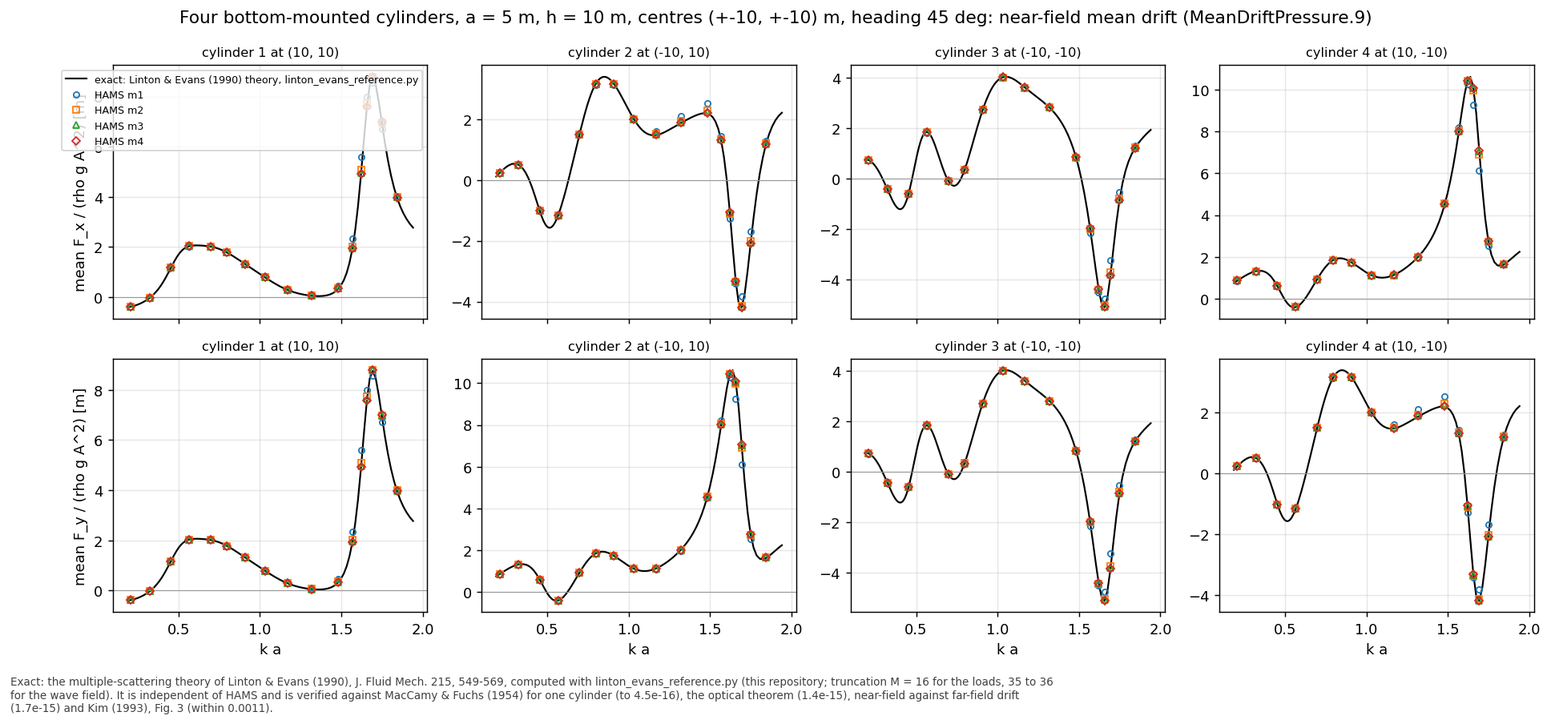
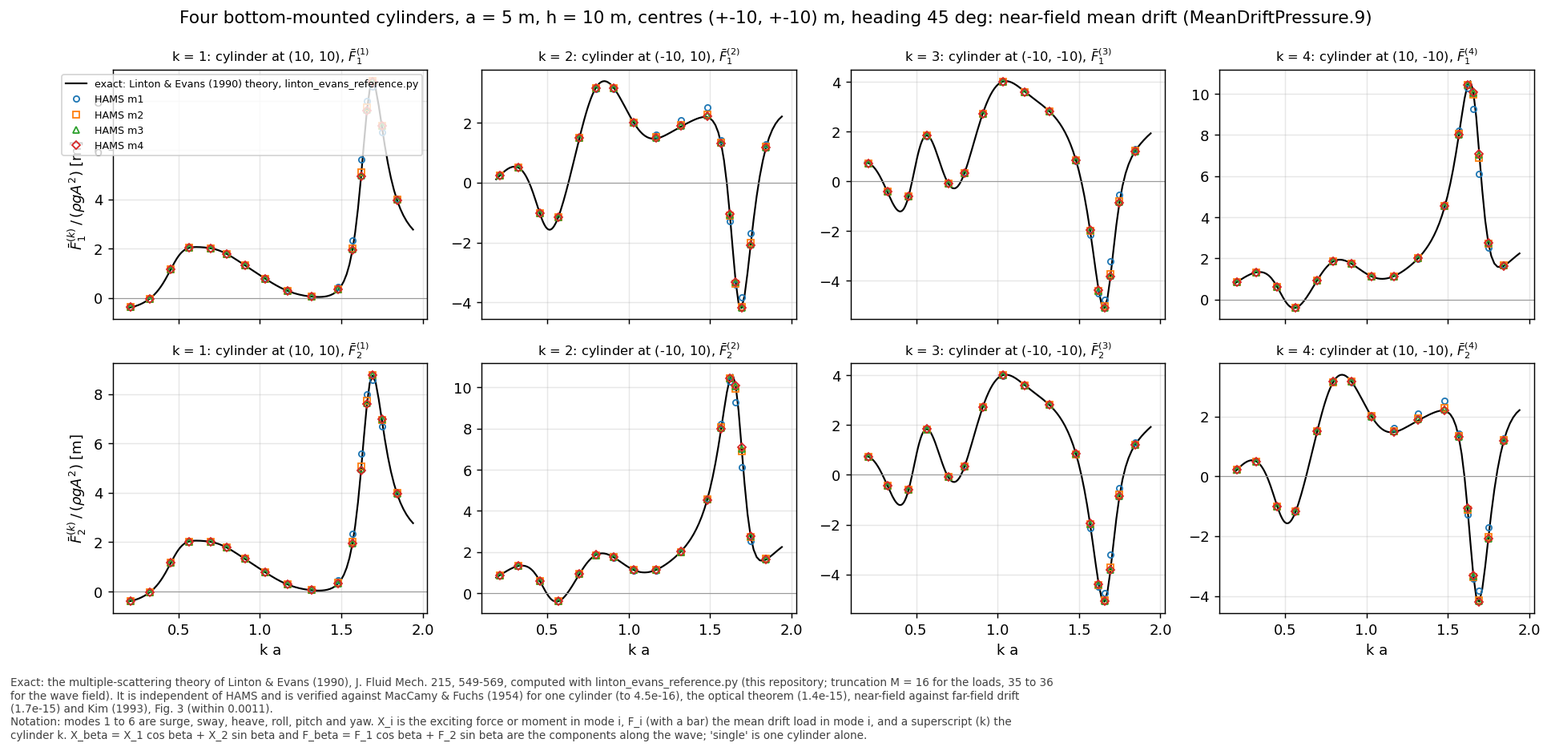
docs: mode and body indices in the Linton & Evans figures, tables and text

diff --git a/pre_postprocessing_python/SecondOrder/linton_evans_reference.py b/pre_postprocessing_python/SecondOrder/linton_evans_reference.py
@@ -212,12 +212,18 @@ EXACT_NOTE = ("Exact: the multiple-scattering theory of Linton & Evans (1990), J
               "theorem (1.4e-15), near-field against far-field drift (1.7e-15) and Kim (1993), Fig. 3 (within 0.0011).")
 
 
+NOTATION_NOTE = ("Notation: modes 1 to 6 are surge, sway, heave, roll, pitch and yaw. X_i is the exciting force or moment "
+                 "in mode i, F_i (with a bar) the mean drift load in mode i, and a superscript (k) the cylinder k. "
+                 "X_beta = X_1 cos beta + X_2 sin beta and F_beta = F_1 cos beta + F_2 sin beta are the components along "
+                 "the wave; 'single' is one cylinder alone.")
+
+
 def exact_note(fig):
-    """Add EXACT_NOTE under the figure, wrapped to its width (saved with bbox_inches = tight, so it is kept)."""
+    """Add EXACT_NOTE and NOTATION_NOTE under the figure, wrapped to its width (saved with bbox_inches = tight)."""
     import textwrap
     width = int(fig.get_size_inches()[0] * 13)
-    fig.text(0.01, -0.005, "\n".join(textwrap.wrap(EXACT_NOTE, width)), fontsize=7.5, va="top", ha="left",
-             color="0.25")
+    text = "\n".join(textwrap.wrap(EXACT_NOTE, width) + textwrap.wrap(NOTATION_NOTE, width))
+    fig.text(0.01, -0.005, text, fontsize=7.5, va="top", ha="left", color="0.25")
 
 
 
@@ -936,6 +942,14 @@ ERRORS = (("X forces", "X_force_err"), ("X moments", "X_moment_err"), ("near-fie
           ("near-field M", "near_M_err"), ("far-field F", "far_err"), ("far-field M_z", "Mz_err"), ("elevation", "eta_err"))
 
 
+# The legend of the convergence plot: each error of ERRORS with its mode indices (superscript (k): per cylinder)
+ERROR_SYMBOLS = {"X_force_err": r"$X_1^{(k)}, X_2^{(k)}$", "X_moment_err": r"$X_4^{(k)}, X_5^{(k)}$",
+                 "near_F_err": r"near-field $\bar F_1^{(k)}, \bar F_2^{(k)}$",
+                 "near_M_err": r"near-field $\bar F_4^{(k)}, \bar F_5^{(k)}$",
+                 "far_err": r"far-field $\bar F_1, \bar F_2$ (whole array)", "Mz_err": r"far-field $\bar F_6$ (whole array)",
+                 "eta_err": r"elevation $\eta$ (complex)"}
+
+
 def case_folders(results, prefix="l_square_diff_"):
     """(name, Wamit_format folder) of the cases under RESULTS whose name starts with prefix and that have output."""
     out = []
@@ -998,17 +1012,18 @@ def plot(results, out, ref_rows):
                     ax = axes[r, j]
                     if kind == "X":
                         ax.plot(ka, np.abs(X[:, j, idx - 1]), "k-", lw=1.2, label=EXACT_LEG)
-                        label = "|X_%d| / (rho g A) [m^2]" % idx
+                        label = r"$|X_%d^{(k)}|\,/\,(\rho g A)$ [m$^2$]" % idx
                     else:
                         ax.plot(ka, D[:, j, idx - 1], "k-", lw=1.2, label=EXACT_LEG)
                         ax.axhline(0.0, color="0.6", lw=0.6)
-                        label = "mean F_%s / (rho g A^2) [m]" % "xy"[idx - 1]
+                        label = r"$\bar F_%d^{(k)}\,/\,(\rho g A^2)$ [m]" % idx
                     for mi, (name, data) in enumerate(hams):
                         table = data[0] if kind == "X" else data[1]
                         xs, ys = _hams_points(table, 6 * j + idx, heading, h, a)
                         ax.plot(xs, [abs(v) for v in ys] if kind == "X" else ys, markers[mi % 4], ms=4, mfc="none",
                                 label=name)
-                    ax.set_title("cylinder %d at (%g, %g)" % (j + 1, arr.centres[j, 0], arr.centres[j, 1]), fontsize=9)
+                    ax.set_title("k = %d: cylinder at (%g, %g), %s" % (j + 1, arr.centres[j, 0], arr.centres[j, 1],
+                                 (r"$|X_%d^{(%d)}|$" if kind == "X" else r"$\bar F_%d^{(%d)}$") % (idx, j + 1)), fontsize=9)
                     if r == 1:
                         ax.set_xlabel("k a")
                     if j == 0:
@@ -1034,7 +1049,7 @@ def plot(results, out, ref_rows):
                 xs, ys = _hams_points(data[2], r + 1, heading, h, a)
                 ax.plot(xs, ys, markers[mi % 4], ms=4, mfc="none", label=name + " far-field")
             ax.set_xlabel("k a")
-            ax.set_ylabel("mean F_%s / (rho g A^2) [m]" % "xy"[r])
+            ax.set_ylabel(r"$\bar F_%d\,/\,(\rho g A^2)$ [m], whole array" % (r + 1))
             ax.grid(alpha=0.3)
         axes[0].legend(fontsize=7)
         fig.suptitle("Four bottom-mounted cylinders, heading %g deg: mean drift of the array (MeanDriftMomentum.8)" % heading)
@@ -1069,7 +1084,7 @@ def plot_convergence(results, out, ref_rows):
         xs = [dc.panels_of(cases[name]) for name in named if worst(rows, name, key) is not None]
         ys = [worst(rows, name, key) for name in named if worst(rows, name, key) is not None]
         if xs:
-            ax.loglog(xs, ys, "o-", label=label)
+            ax.loglog(xs, ys, "o-", label=ERROR_SYMBOLS.get(key, label))
     x = np.array([dc.panels_of(cases[name]) for name in named], dtype=float)
     ax.loglog(x, 0.1 * (x / x[0]) ** -1.0, "k:", lw=1, label="slope of second order (error ~ 1/panels)")
     ax.set_xlabel("panels in all (four cylinders)")
@@ -1127,16 +1142,16 @@ def plot_reference(out):
         ones = [Solution(single, w, math.radians(heading), order=LOAD_ORDER) for w in omegas]
         ka = np.array([s.k * arr.radii[0] for s in sols])
         for j in range(len(arr)):
-            axes[0, c].plot(ka, [abs(exciting_loads(s, j)[0]) for s in sols], label="cylinder %d" % (j + 1))
-            axes[1, c].plot(ka, [near_field_drift(s, j)[0] for s in sols], label="cylinder %d" % (j + 1))
+            axes[0, c].plot(ka, [abs(exciting_loads(s, j)[0]) for s in sols], label="k = %d" % (j + 1))
+            axes[1, c].plot(ka, [near_field_drift(s, j)[0] for s in sols], label="k = %d" % (j + 1))
         axes[0, c].plot(ka, [abs(exciting_loads(s, 0)[0]) for s in ones], "k--", lw=1, label="one cylinder alone")
         axes[1, c].plot(ka, [near_field_drift(s, 0)[0] for s in ones], "k--", lw=1, label="one cylinder alone")
         axes[0, c].set_title("heading %g deg" % heading)
         axes[1, c].set_xlabel("k a")
         for r in range(2):
             axes[r, c].grid(alpha=0.3)
-    axes[0, 0].set_ylabel("|X_1| / (rho g A) [m^2]")
-    axes[1, 0].set_ylabel("mean F_x / (rho g A^2) [m]")
+    axes[0, 0].set_ylabel(r"$|X_1^{(k)}|\,/\,(\rho g A)$ [m$^2$]")
+    axes[1, 0].set_ylabel(r"$\bar F_1^{(k)}\,/\,(\rho g A^2)$ [m]")
     axes[0, 0].legend(fontsize=8)
     fig.suptitle("Exact loads per cylinder in the square array, against one cylinder alone (MacCamy-Fuchs)")
     fig.tight_layout()
@@ -1148,12 +1163,12 @@ def plot_reference(out):
     fx, fy = kim_fig3()
     fig, axes = plt.subplots(2, 1, figsize=(8, 6), sharex=True)
     n = np.arange(1, 20)
-    for ax, ref, pub, label in ((axes[0], fx, KIM_FIG3_X, "|F_x|"), (axes[1], fy, KIM_FIG3_Y, "|F_y|")):
+    for ax, ref, pub, label in ((axes[0], fx, KIM_FIG3_X, r"$|X_1^{(n)}|$"), (axes[1], fy, KIM_FIG3_Y, r"$|X_2^{(n)}|$")):
         ax.plot(n, pub, "o", mfc="none", ms=9, label="Kim (1993), Fig. 3, digitised")
         ax.plot(n, ref, "k+", ms=9, label=EXACT_LEG)
-        ax.set_ylabel(label + " / (pi rho g a h A)")
+        ax.set_ylabel(label + r"$\,/\,(\pi \rho g a h A)$")
         ax.grid(alpha=0.3)
-    axes[1].set_xlabel("cylinder number")
+    axes[1].set_xlabel("cylinder number n")
     axes[0].legend(fontsize=8)
     fig.suptitle("19 bottom-mounted cylinders in a row, spacing 4a, h = 12a, k a = 0.5, heading 45 deg\n"
                  "largest difference %.4f (a marker is about 0.0015 high)"
@@ -1227,12 +1242,12 @@ def plot_linton_evans(results, out):
         ax2.plot(xd, yd1, markers[mi % 4], ms=5, color="C%d" % mi, label=label)
         ax2.plot(xd, yd3, markers[mi % 4], ms=5, mfc="none", color="C%d" % mi)
     ax.set_xlabel("k a")
-    ax.set_ylabel("f / f_1, total mean drift along the wave")
+    ax.set_ylabel(r"$\sum_k \bar F_\beta^{(k)}\,/\,\bar F_\beta^{\mathrm{single}}$")
     ax.set_title("total drift (grey: near-trapping band)", fontsize=10)
     ax.grid(alpha=0.3)
     ax.legend(fontsize=7)
     ax2.set_xlabel("k a")
-    ax2.set_ylabel("|X . e_beta| / |F|")
+    ax2.set_ylabel(r"$|X_\beta^{(k)}|\,/\,|X_\beta^{\mathrm{single}}|$")
     ax2.set_title("first-order force on the diagonal cylinders (HAMS: filled lee, open weather)", fontsize=10)
     ax2.grid(alpha=0.3)
     ax2.legend(fontsize=7)
@@ -1337,8 +1352,10 @@ def plot_published(results, out):
             ax.plot(*zip(*rest), "o", ms=4, color="0.6", mfc="none", label="digitised, left out (crossing)")
 
     for fig_name, panels, ylabel in (
-            ("Fig. 2", ["cylinder 1", "cylinder 2", "cylinder 4"], "|X/F|"),
-            ("Fig. 3", ["total", "cylinder 1", "cylinder 2", "cylinder 4"], "f / f_1")):
+            ("Fig. 2", ["cylinder 1", "cylinder 2", "cylinder 4"],
+             r"$|X_\beta^{(k)}|\,/\,|X_\beta^{\mathrm{single}}|$"),
+            ("Fig. 3", ["total", "cylinder 1", "cylinder 2", "cylinder 4"],
+             r"$\bar F_\beta^{(k)}\,/\,\bar F_\beta^{\mathrm{single}}$")):
         fig, axes = plt.subplots(len(panels), 1, figsize=(10, 3.0 * len(panels)), sharex=True)
         for ax, curve in zip(axes, panels):
             if curve == "total":
@@ -1346,10 +1363,11 @@ def plot_published(results, out):
             else:
                 j = LE_TO_HERE[curve]
                 if fig_name == "Fig. 2":
-                    ax.plot(kas, X[:, j], "k-", lw=1.2, label=EXACT_LEG + ", |X . e_beta|/|F|")
+                    ax.plot(kas, X[:, j], "k-", lw=1.2, label=EXACT_LEG + r", $|X_\beta^{(k)}|/|X_\beta^{\mathrm{single}}|$")
                     if curve in ("cylinder 1", "cylinder 3"):
                         ax.plot(kas, Xm[:, j], "k--", lw=1.0,
-                                label="same theory, (|X_x| cos b + |X_y| sin b)/|F|, the paper's form off the diagonal")
+                                label=r"same theory, $(|X_1^{(k)}| \cos\beta + |X_2^{(k)}| \sin\beta)/|X_\beta^{\mathrm{single}}|$, "
+                                      "the paper's form off the diagonal")
                 else:
                     ax.plot(kas, D[:, j], "k-", lw=1.2, label=EXACT_LEG)
             published(ax, fig_name, curve)
@@ -1365,8 +1383,9 @@ def plot_published(results, out):
             # the axes of the paper, extended to show the exact near-trapping extremes (2.27 in Fig. 2, -2.34 in Fig. 3);
             # f_1 goes to zero as k a goes to zero, so f/f_1 grows without bound there
             ax.set_ylim(*((0.0, 2.4) if fig_name == "Fig. 2" else (-2.5, 5.0)))
-            ax.set_ylabel(ylabel)
-            ax.set_title(curve, fontsize=10, loc="left")
+            ax.set_ylabel(r"$\sum_k \bar F_\beta^{(k)}\,/\,\bar F_\beta^{\mathrm{single}}$" if curve == "total" else ylabel)
+            ax.set_title("total (all four cylinders)" if curve == "total" else
+                         "k = %s (%s of the paper)" % (curve.split()[-1], curve), fontsize=10, loc="left")
             ax.grid(alpha=0.3)
             ax.set_xlim(0.0, 3.25)
         axes[0].legend(fontsize=7, ncol=2, loc="upper left" if fig_name == "Fig. 2" else "lower right")

diff --git a/docs/second_order_validation.md b/docs/second_order_validation.md
@@ -1353,12 +1353,14 @@ The estimate was 96.3 core-h. It came from runs made before the near-waterline f
 
 This case checks the multi-body solve, and the mean drift per body, against an exact solution. [linton_evans_reference.py](../pre_postprocessing_python/SecondOrder/linton_evans_reference.py) solves wave scattering by an array of bottom-mounted vertical circular cylinders without panels. It needs no HAMS run. All values in this section were measured with it in November 2026, on a laptop.
 
+**Notation.** Modes 1 to 6 are surge, sway, heave, roll, pitch and yaw. X_i is the exciting force or moment in mode i, F̄_i the mean drift load in mode i (F̄_4 and F̄_5 are the roll and pitch moments), and a superscript (k) is cylinder k, numbered as in the HAMS case, or as in the paper where its figures are quoted. Without a superscript, F̄_i is the load on the whole array. Along the wave, X_β = X_1 cos β + X_2 sin β and F̄_β = F̄_1 cos β + F̄_2 sin β; "single" is one cylinder alone. "Exact" is the reference of this section.
+
 **Method.** Every boundary is vertical and reaches the sea bed, so the potential separates exactly into cosh k(z + h)/cosh kh times a solution of the 2D Helmholtz equation. Only the propagating mode exists. The scattered wave of each cylinder is a series of Hankel functions. Graf's addition theorem moves the other cylinders' waves to each cylinder, and the no-flux condition then gives one linear system for all the coefficients (Spring & Monkmeyer 1974; Linton & Evans 1990). The script solves it in scaled unknowns, which keeps the condition number of the system below 10 for this layout. It also truncates at the order where every cylinder's series has converged on its neighbours. From the coefficients it computes:
 
 - the exciting forces and moments per cylinder, in the normalisation and phase convention of `ExcForce.3`;
 - the total elevation at any point, as the diffraction rows of `PressureElevation.6p` give it;
-- the near-field mean drift per cylinder: the waterline term and the quadratic-velocity term, with the depth integrals in closed form (WAMIT v7.5 manual, eqs. 15.54 to 15.57; for a fixed body the other terms vanish). F_z and M_z are zero for a vertical circle;
-- the far-field mean F_x and F_y of the array, from the Kochin function (Maruo 1960; Newman 1967);
+- the near-field mean drift per cylinder: the waterline term and the quadratic-velocity term, with the depth integrals in closed form (WAMIT v7.5 manual, eqs. 15.54 to 15.57; for a fixed body the other terms vanish). F̄_3^(k) and F̄_6^(k) are zero for a vertical circle;
+- the far-field mean F̄_1 and F̄_2 of the array, from the Kochin function (Maruo 1960; Newman 1967);
 - the mean drift on any vertical control circle, from the momentum balance (Chen 2007, eqs. 39 to 41, without the hull terms).
 
 **Checks.** `check` runs 13 checks in about 4 minutes and exits with 1 if one fails. The two four-cylinder cases are the square of the HAMS case and an irregular array of three unequal cylinders off the origin, so that no symmetry hides an error.
@@ -1366,13 +1368,13 @@ This case checks the multi-body solve, and the mean drift per body, against an e
 | Check | Requirement | Measured |
 | :--- | :--- | ---: |
 | One cylinder: X_1, X_5 against MacCamy-Fuchs, heading 0 and 90 deg, 17 frequencies | 1e-13 | 4.5e-16 |
-| One cylinder: near-field F_x against the far-field of `drift_convergence.maccamy_fuchs_fx` (separate code) and of this script | 1e-10 | 3.9e-15 |
+| One cylinder: near-field F̄_1 against the far-field of `drift_convergence.maccamy_fuchs_fx` (separate code) and of this script | 1e-10 | 3.9e-15 |
 | Boundary condition on every cylinder, by summing all the Hankel series directly (no Graf) | 1e-11 | 2.1e-15 |
 | Surface values from the Wronskian form against the direct sum | 1e-11 | 2.7e-15 |
 | Loads at truncation M and M + 10 | 1e-12 | 9.5e-15 |
 | Energy: the optical theorem on the Kochin function | 1e-12 | 1.4e-15 |
-| Near-field F_x, F_y summed over the cylinders against far-field | 1e-10 | 1.7e-15 |
-| Control circle around each cylinder against its near-field load; around the array against far-field F_x, F_y and the near-field M_z | 1e-9 | 3.8e-15 |
+| Near-field F̄_1^(k), F̄_2^(k) summed over the cylinders against far-field F̄_1, F̄_2 | 1e-10 | 1.7e-15 |
+| Control circle around each cylinder against its near-field load; around the array against far-field F̄_1, F̄_2 and the near-field F̄_6 | 1e-9 | 3.8e-15 |
 | The square renumbered, and the square with the heading turned by 90 deg | 1e-11 | 6.0e-15 |
 | Depth integrals in closed form against Gauss-Legendre | 1e-13 | 1.8e-15 |
 | Published values: Linton & Evans (1990), Table 1 (below) | 1e-3 | 5.0e-4 |
@@ -1385,12 +1387,12 @@ The invariance check found one error while the script was written: the sign of t
 
 **Published values.** Three published sources are compared. The values were read from the paper (Table 1) or digitised from the figures, and are stored in the script.
 
-- **Linton & Evans (1990), Table 1** (check `linton_evans_table1`). Two equal cylinders with spacing R = a/λ and heading π/6, in the long-wave limit k a → 0 (taken at k a = 10⁻³): |X_x|/|F| and |X_y|/|F| for λ = 0.1 to 0.4, eight values printed to three decimals. Seven round to the printed values. The eighth, λ = 0.3, |X_x|/|F| = 0.95350 against 0.953, sits on the rounding boundary. The largest difference is 5.0e-4.
-- **Linton & Evans (1990), Figs. 2 and 3.** Four cylinders at the corners of a square with a/h = 1/2, h half the side, and heading π/4: the HAMS case scaled by 1/5. Fig. 2 gives the first-order force along the wave on each cylinder over that on one cylinder alone, |X/F|; Fig. 3 the mean drift along the wave over that on one cylinder alone, f/f_1, on each cylinder and in total. Every curve was digitised at k a steps of 0.05 (`linton_evans_digitised.csv`, 372 points). Anchor points were read by eye from gridded zooms of the page and then snapped to the centre of the nearest line in each pixel column, so the values come from the figure, not from the reference. 106 points are left out, with the reason in the file: where two curves pass through the snap window, Fig. 3 below k a = 0.65, where the curves are tangled, and seven points checked to lie on another curve. Outside the near-trapping band 1.38 < k a < 2.07 the largest difference from the reference is 0.037, 0.042 and 0.115 on cylinders 1, 2 and 4 of Fig. 2, and 0.046, 0.066, 0.080 and 0.112 on cylinders 1, 2 and 4 and the total of Fig. 3. The largest differences are on steep parts of the curves, where a small shift in k a changes the value much. Check `linton_evans_fig3` keeps the total within 0.15.
-- **The definition of Fig. 2 off the diagonal.** Cylinders 2 and 4 lie on the diagonal along the wave. For cylinder 1, off the diagonal, the paper's curve is not the modulus of the force component along the wave, |X · e_β|/|F|. It is (|X_x| cos β + |X_y| sin β)/|F|, the combination of the two moduli that their eq. 3.4 gives. The digitised points of cylinder 1 are compared with the reference in that form (the dashed line in the figure); on the diagonal the two forms are equal.
-- **Kim (1993), Fig. 3** (check `kim_fig3`). |F_x| and |F_y|/(π ρ g a h A) on each of 19 bottom-mounted cylinders in a row: centre spacing 4a, h = 12a, k a = 0.5, heading 45 deg. Kim computed them with the same exact method, and they agree in that figure with the full interaction method and hybrid finite elements of Kagemoto & Yue (1986). The largest difference over the 38 digitised values is 0.0011 (cylinder 19, |F_y|: reference 0.1333, figure 0.1344), below the height of a marker, about 0.0015. The differences grow from cylinder 1 to 19 on both panels, consistent with a slight tilt of the scan.
+- **Linton & Evans (1990), Table 1** (check `linton_evans_table1`). Two equal cylinders with spacing R = a/λ and heading π/6, in the long-wave limit k a → 0 (taken at k a = 10⁻³): |X_1^(k)|/|F| and |X_2^(k)|/|F| (F the force on one cylinder alone) for λ = 0.1 to 0.4, eight values printed to three decimals. Seven round to the printed values. The eighth, λ = 0.3, |X_1^(k)|/|F| = 0.95350 against 0.953, sits on the rounding boundary. The largest difference is 5.0e-4.
+- **Linton & Evans (1990), Figs. 2 and 3.** Four cylinders at the corners of a square with a/h = 1/2, h half the side, and heading π/4: the HAMS case scaled by 1/5. Fig. 2 gives the first-order force along the wave on each cylinder over that on one cylinder alone, |X_β^(k)|/|X_β^single| (the paper's |X/F|); Fig. 3 the mean drift along the wave over that on one cylinder alone, F̄_β^(k)/F̄_β^single (the paper's f/f_1), on each cylinder and in total. Every curve was digitised at k a steps of 0.05 (`linton_evans_digitised.csv`, 372 points). Anchor points were read by eye from gridded zooms of the page and then snapped to the centre of the nearest line in each pixel column, so the values come from the figure, not from the reference. 106 points are left out, with the reason in the file: where two curves pass through the snap window, Fig. 3 below k a = 0.65, where the curves are tangled, and seven points checked to lie on another curve. Outside the near-trapping band 1.38 < k a < 2.07 the largest difference from the reference is 0.037, 0.042 and 0.115 on cylinders 1, 2 and 4 of Fig. 2, and 0.046, 0.066, 0.080 and 0.112 on cylinders 1, 2 and 4 and the total of Fig. 3. The largest differences are on steep parts of the curves, where a small shift in k a changes the value much. Check `linton_evans_fig3` keeps the total within 0.15.
+- **The definition of Fig. 2 off the diagonal.** Cylinders 2 and 4 lie on the diagonal along the wave. For cylinder 1, off the diagonal, the paper's curve is not the modulus of the force component along the wave, |X_β^(1)|/|F|. It is (|X_1^(1)| cos β + |X_2^(1)| sin β)/|F|, the combination of the two moduli that their eq. 3.4 gives. The digitised points of cylinder 1 are compared with the reference in that form (the dashed line in the figure); on the diagonal the two forms are equal.
+- **Kim (1993), Fig. 3** (check `kim_fig3`). |X_1^(n)| and |X_2^(n)| over π ρ g a h A on each cylinder n of 19 bottom-mounted cylinders in a row: centre spacing 4a, h = 12a, k a = 0.5, heading 45 deg. Kim computed them with the same exact method, and they agree in that figure with the full interaction method and hybrid finite elements of Kagemoto & Yue (1986). The largest difference over the 38 digitised values is 0.0011 (|X_2^(19)|: reference 0.1333, figure 0.1344), below the height of a marker, about 0.0015. The differences grow from cylinder 1 to 19 on both panels, consistent with a slight tilt of the scan.
 
-**The near-trapping band.** At 1.4 < k a < 2.0 the paper's curves in Figs. 2 and 3 are smoother and lower than the reference. The reference has narrow peaks near k a = 1.68 (|X/F| = 2.27 on cylinder 4, f/f_1 = 4.0 on cylinder 2), where four cylinders at this spacing have a near-trapped mode. Where a published curve has a peak in this band, the reference passes through it: the paper's f/f_1 of cylinder 2 peaks at 2.27 at k a = 1.80, and the reference gives 2.26 there. Truncation is not the cause: with the paper's M = 6 the reference gives the same values as with M = 34 (to three decimals at k a = 1.0 to 2.2). Its boundary-condition residual on this layout is 2e-15. HAMS settles it independently: on the finest mesh it gives the peak drift of the reference within 0.1% (below). A coarse k a step in the paper's computations would explain the smoothing, but the paper does not state its step, so this is not confirmed.
+**The near-trapping band.** At 1.4 < k a < 2.0 the paper's curves in Figs. 2 and 3 are smoother and lower than the reference. The reference has narrow peaks near k a = 1.68 (|X_β^(4)|/|X_β^single| = 2.27 and F̄_β^(2)/F̄_β^single = 4.0, the paper's numbering), where four cylinders at this spacing have a near-trapped mode. Where a published curve has a peak in this band, the reference passes through it: the paper's F̄_β^(2)/F̄_β^single peaks at 2.27 at k a = 1.80, and the reference gives 2.26 there. Truncation is not the cause: with the paper's M = 6 the reference gives the same values as with M = 34 (to three decimals at k a = 1.0 to 2.2). Its boundary-condition residual on this layout is 2e-15. HAMS settles it independently: on the finest mesh it gives the peak drift of the reference within 0.1% (below). A coarse k a step in the paper's computations would explain the smoothing, but the paper does not state its step, so this is not confirmed.
 
 The figures below redraw Linton & Evans (1990), Figs. 2 and 3, with one panel per cylinder (numbered as in the paper) and the total. Lines: the exact reference, at k a steps of 0.01, and 0.002 in the near-trapping band. Red circles: data from Linton, C.M. & Evans, D.V. (1990), The interaction of waves with arrays of vertical circular cylinders, J. Fluid Mech. 215, 549-569, Figs. 2 and 3, digitised; grey circles: digitised points left out. Symbols: HAMS on the three meshes of the HAMS case (section below). The axes are those of the paper, extended to show the exact near-trapping extremes.
 
@@ -1400,43 +1402,43 @@ The figures below redraw Linton & Evans (1990), Figs. 2 and 3, with one panel pe
 
 ![Kim (1993), Fig. 3, against the reference](figures/le_reference_kim1993_fig3.png)
 
-**The HAMS case.** Four cylinders of the bottom-mounted hull of the convergence study: radius 5 m, depth 10 m, centres (±10, ±10) m, so the centre spacing is 4 radii. Each cylinder is a wall from the waterline to the sea bed with no bottom panel, uniform rows, as in group B of the convergence study, where one such cylinder agreed with MacCamy-Fuchs within 0.12% at 4096 panels. The bodies are fixed. The mean drift is computed with `drift_methods = far near` and `velocity_method = differencing` (the closer method on that cylinder), at headings 0 and 45 deg and 17 frequencies from 0.40 to 1.90 rad/s, so k a runs from 0.19 to 1.84. That is below the first irregular frequency of a bottom-mounted circle, k a = 2.405 (2.17 rad/s here). The grid is dense at 1.75 to 1.85 rad/s, where heading 45 deg has a near-trapped mode between the cylinders: the exact mean F_x of cylinder 4 peaks at 10.6 ρ g A² at 1.79 rad/s, against 2.2 for one cylinder alone. There are 16 field points at z = 0, in the gaps and around the array. The meshes have 256, 1024, 2304 and 4096 panels per cylinder (1024, 4096, 9216 and 16384 in all). `drift_convergence.py --linton-evans` writes and runs the cases (`l_square_diff_m1` to `_m4`, and `l_square_field_m1` to `_m3` for the wave field on a grid, below), and `linton_evans_reference.py compare` and `plot` compare them.
+**The HAMS case.** Four cylinders of the bottom-mounted hull of the convergence study: radius 5 m, depth 10 m, centres (±10, ±10) m, so the centre spacing is 4 radii. Each cylinder is a wall from the waterline to the sea bed with no bottom panel, uniform rows, as in group B of the convergence study, where one such cylinder agreed with MacCamy-Fuchs within 0.12% at 4096 panels. The bodies are fixed. The mean drift is computed with `drift_methods = far near` and `velocity_method = differencing` (the closer method on that cylinder), at headings 0 and 45 deg and 17 frequencies from 0.40 to 1.90 rad/s, so k a runs from 0.19 to 1.84. That is below the first irregular frequency of a bottom-mounted circle, k a = 2.405 (2.17 rad/s here). The grid is dense at 1.75 to 1.85 rad/s, where heading 45 deg has a near-trapped mode between the cylinders: the exact F̄_1^(4) peaks at 10.6 ρ g A² at 1.79 rad/s, against 2.2 for one cylinder alone. There are 16 field points at z = 0, in the gaps and around the array. The meshes have 256, 1024, 2304 and 4096 panels per cylinder (1024, 4096, 9216 and 16384 in all). `drift_convergence.py --linton-evans` writes and runs the cases (`l_square_diff_m1` to `_m4`, and `l_square_field_m1` to `_m3` for the wave field on a grid, below), and `linton_evans_reference.py compare` and `plot` compare them.
 
 ![Exact loads per cylinder against one cylinder alone](figures/le_reference_loads.png)
 
 **Integration test.** `test/test_integration_array.f90` runs the case at test size, `drift_le_square`: 64 panels per cylinder, 0.95 and 1.60 rad/s, heading 45 deg. It compares the run with the exact rows in `test/data/drift_le_square/array_reference.txt`. At this mesh the differences are mesh errors (1.60 rad/s has 12 panels per wavelength around a cylinder), so the limits are about twice the measured values, not accuracy claims. The measured values [ifort 2022.1, Windows]:
 
-- X forces: 0.108;
-- X moments: 0.142;
-- near-field F_x, F_y: 0.231, over the largest load of the array;
-- near-field M_x, M_y: 0.079;
-- far-field F: 0.018;
+- X_1^(k), X_2^(k): 0.108;
+- X_4^(k), X_5^(k): 0.142;
+- near-field F̄_1^(k), F̄_2^(k): 0.231, over the largest load of the array;
+- near-field F̄_4^(k), F̄_5^(k): 0.079;
+- far-field F̄_1, F̄_2: 0.018;
 - elevation: 0.092 per unit amplitude;
-- F_z and M_z: 1.7e-11.
+- F̄_3^(k) and F̄_6^(k): 1.7e-11.
 
-At 0.95 rad/s, X agrees within 1.9% for every body, with the right phase, body order and moment centre. A sign, conjugation or body-order error would give errors of order 1.
+At 0.95 rad/s, X_i^(k) agrees within 1.9% for every body, with the right phase, body order and moment centre. A sign, conjugation or body-order error would give errors of order 1.
 
 **HAMS against the reference on Snellius.** The four cases ran on Snellius (`fat_genoa`, 24 threads, ifx 2024a) in November 2026, built from the commit that added this case (the Fortran code is the same in the later commits). Wall time: 11 s, 103 s, 463 s and 1623 s; peak memory: 0.14, 1.2, 5.6 and 17.4 GB. The table gives the largest error of each quantity over the 17 frequencies, both headings and the four cylinders, with the error measures of `compare` (python_scripts.md):
 
-| Mesh (panels in all) | X forces | X moments | near-field F | near-field M | far-field F | elevation |
+| Mesh (panels in all) | X_1^(k), X_2^(k) | X_4^(k), X_5^(k) | near-field F̄_1^(k), F̄_2^(k) | near-field F̄_4^(k), F̄_5^(k) | far-field F̄_1, F̄_2 | η (complex) |
 | :--- | ---: | ---: | ---: | ---: | ---: | ---: |
 | m1 (1024) | 9.8e-2 | 1.09e-1 | 1.15e-1 | 1.18e-1 | 5.5e-2 | 3.6e-1 |
 | m2 (4096) | 2.4e-2 | 2.6e-2 | 2.6e-2 | 3.2e-2 | 1.4e-2 | 9.1e-2 |
 | m3 (9216) | 1.0e-2 | 1.1e-2 | 1.1e-2 | 1.4e-2 | 6.0e-3 | 3.9e-2 |
 | m4 (16384) | 5.4e-3 | 6.1e-3 | 6.5e-3 | 8.0e-3 | 3.2e-3 | 2.1e-2 |
 
-- **Convergence.** Every error falls by 3.7 to 4.4 times from m1 to m2 (twice the panels per side) by 2.2 to 2.4 times from m2 to m3 (1.5 times) and by 1.73 to 1.87 times from m3 to m4 (4/3 times, where second order gives 1.78), so HAMS converges to the exact solution at second order in the panel size. That covers the multi-body solve, the exciting loads per body, the elevation and the mean drift per body and of the array.
-- **Largest errors at m4:** X 0.54% (1.78 rad/s, heading 45 deg), near-field F 0.65% (1.60 rad/s), far-field F 0.32% (1.82 rad/s), elevation 0.021 per unit amplitude (1.80 rad/s). All are in or next to the near-trapping band, where the field between the cylinders is steepest. F_z and M_z near-field, zero for this hull, are under 1e-10 of the force, and far-field M_z of the array, zero by symmetry at both headings, is under 3e-6 of |F| times 10 m.
-- **Near-trapping peak.** Mean F_x on each cylinder at heading 45 deg, per ρ g A² (m1, m2, m3, m4, exact):
+- **Convergence.** Every error falls by 3.7 to 4.4 times from m1 to m2 (twice the panels per side), by 2.2 to 2.4 times from m2 to m3 (1.5 times) and by 1.73 to 1.87 times from m3 to m4 (4/3 times, where second order gives 1.78), so HAMS converges to the exact solution at second order in the panel size. That covers the multi-body solve, the exciting loads per body, the elevation and the mean drift per body and of the array.
+- **Largest errors at m4:** X_1^(k), X_2^(k) 0.54% (1.78 rad/s, heading 45 deg), near-field F̄_1^(k), F̄_2^(k) 0.65% (1.60 rad/s), far-field F̄_1, F̄_2 0.32% (1.82 rad/s), elevation η 0.021 per unit amplitude (1.80 rad/s). All are in or next to the near-trapping band, where the field between the cylinders is steepest. F̄_3^(k) and F̄_6^(k) near-field, zero for this hull, are under 1e-10 of the force, and far-field F̄_6 of the array, zero by symmetry at both headings, is under 3e-6 of |F| times 10 m.
+- **Near-trapping peak.** F̄_1^(k) on each cylinder k at heading 45 deg, per ρ g A² (m1, m2, m3, m4, exact):
 
-| rad/s | cylinder 1 | cylinder 3 | cylinder 4 |
+| rad/s | F̄_1^(1) | F̄_1^(3) | F̄_1^(4) |
 | ---: | :--- | :--- | :--- |
 | 1.75 | 2.332, 2.019, 1.957, 1.935, 1.906 | -2.150, -1.998, -1.967, -1.956, -1.943 | 8.218, 8.064, 8.022, 8.005, 7.983 |
 | 1.78 | 5.602, 5.080, 4.961, 4.917, 4.859 | -4.499, -4.422, -4.396, -4.386, -4.373 | 10.284, 10.437, 10.435, 10.431, 10.420 |
 | 1.80 | 7.995, 7.726, 7.633, 7.595, 7.540 | -4.753, -5.039, -5.077, -5.088, -5.099 | 9.259, 9.957, 10.059, 10.090, 10.120 |
 | 1.82 | 8.575, 8.790, 8.788, 8.781, 8.761 | -3.221, -3.719, -3.807, -3.836, -3.868 | 6.122, 6.898, 7.035, 7.081, 7.129 |
 
-  HAMS converges to the exact peak (10.42 at 1.78 rad/s on cylinder 4, five times the drift on one cylinder alone), not to the smoother published curves.
+  HAMS converges to the exact peak (F̄_1^(4) = 10.42 at 1.78 rad/s, five times the drift on one cylinder alone), not to the smoother published curves.
 
 - **Wave elevation.** At the 16 field points, | |η_HAMS| − |η_exact| | / A is at most 0.276, 0.067, 0.027 and 0.017% at 1.10 rad/s and 4.41, 1.09, 0.49 and 0.28% at 1.70 rad/s (m1 to m4; medians 0.006 and 0.046% at m4). The error is given over the incident amplitude A because |η| is near zero in places, where a relative error has no meaning. The elevation error of the table above (0.021 at m4) is that of the complex elevation, phase included, and its largest value is at 1.80 rad/s.
 
